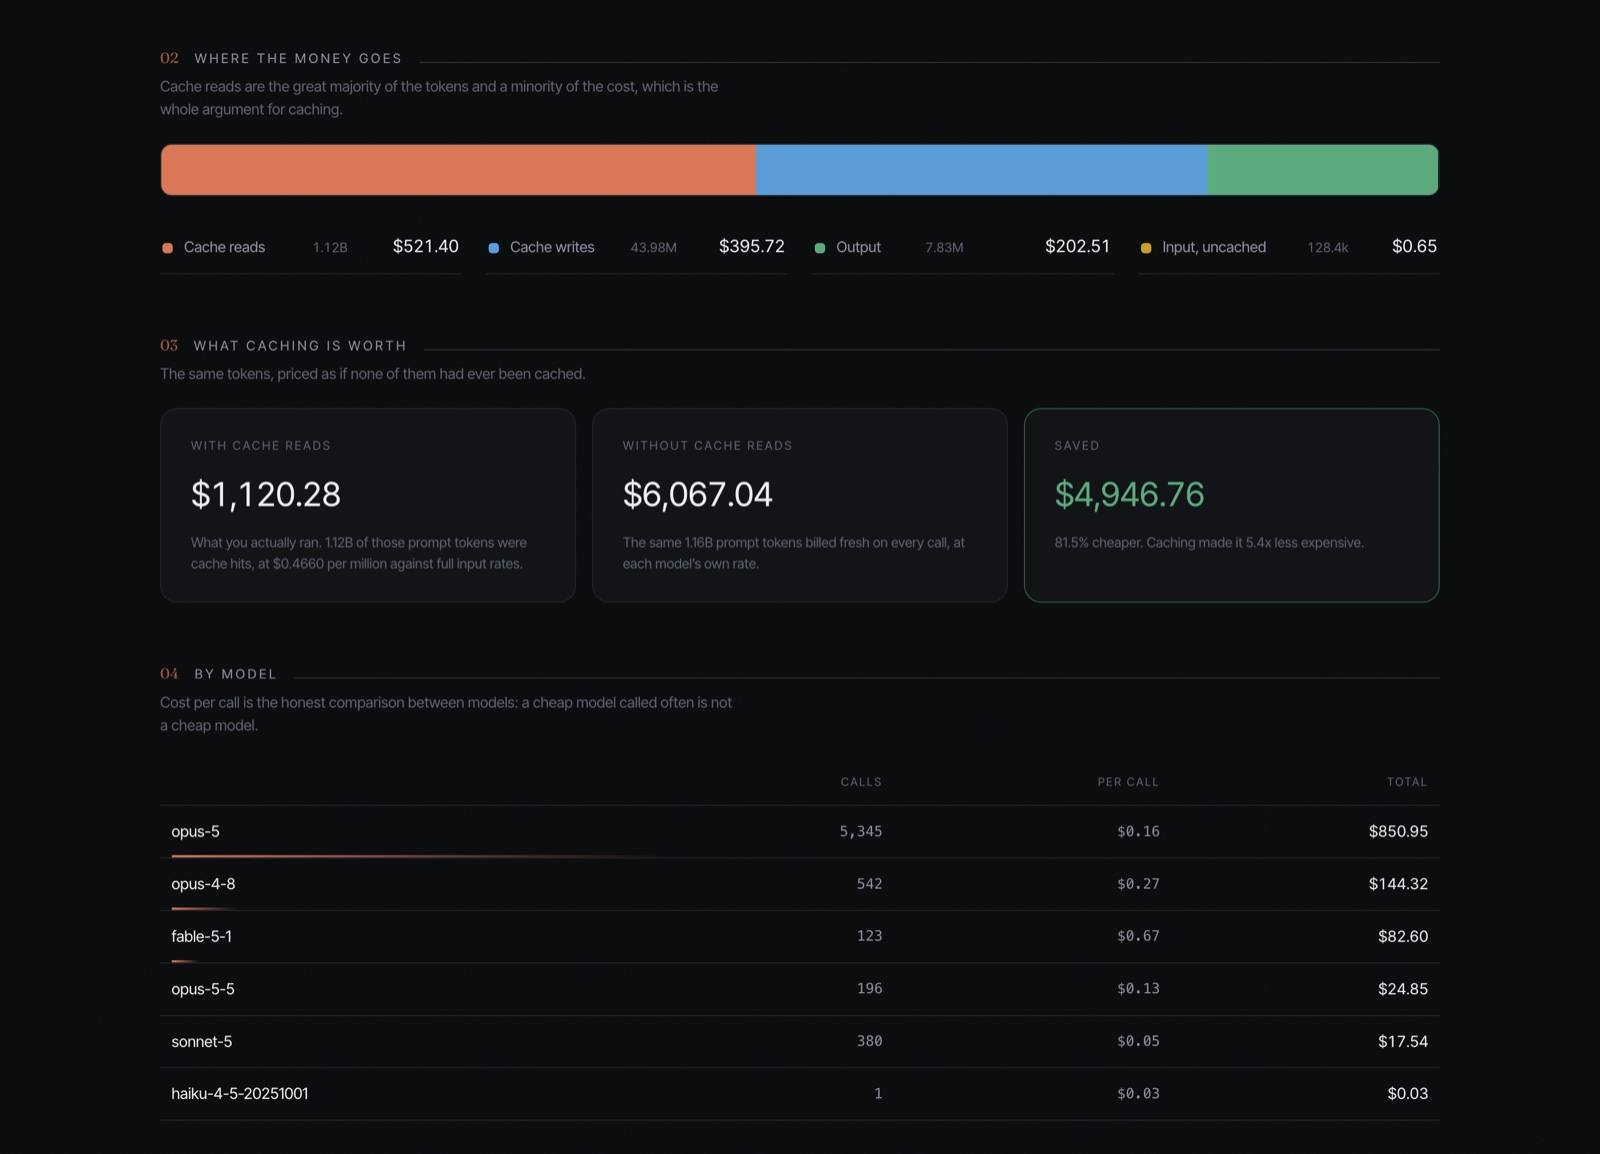
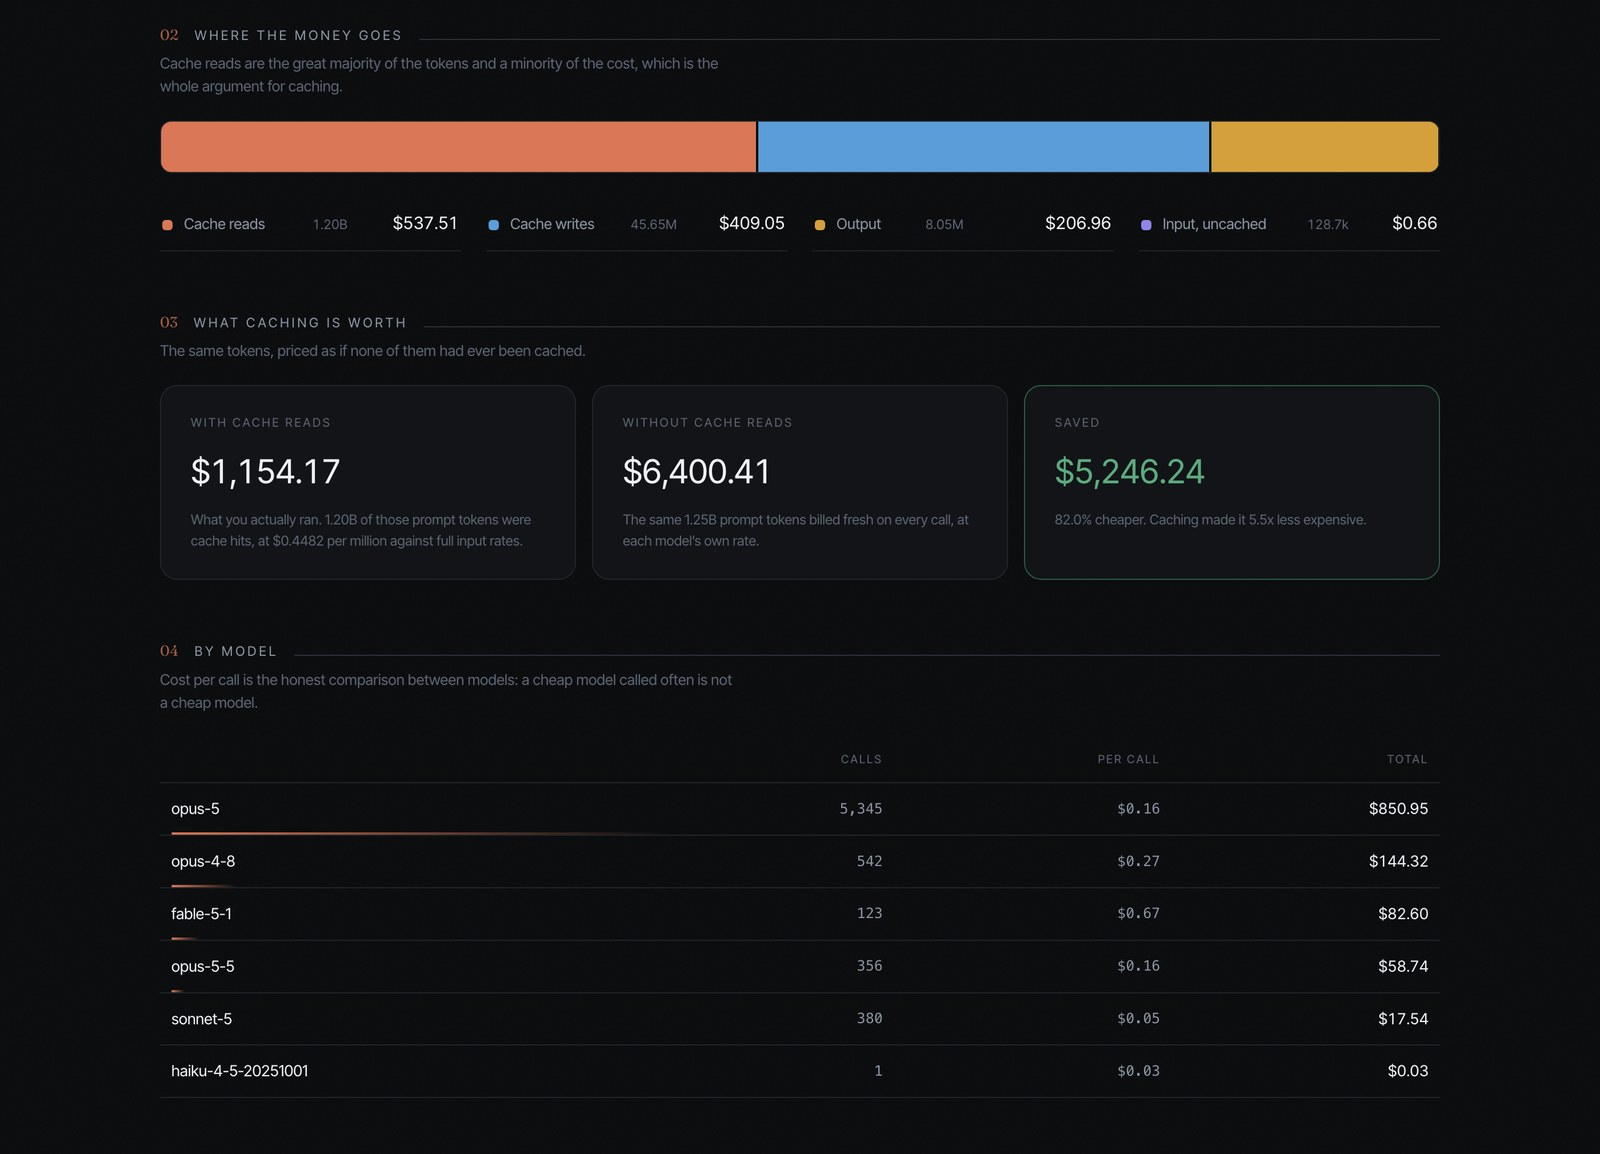
Tokenmeter 1.1.0
Version 1.1.0 (app build 2). Homebrew install documented: brew install, then
tokenmeter-setup, which runs install.sh from Homebrew's copy. install.sh now
reports a failed menu bar build. README gains the icon, the Homebrew steps,
a section on several harnesses with a screenshot, and dashboard screenshots
redone for the new cost breakdown colours. All figures in the screenshots
are real; project and session names are invented.

diff --git a/tokenmeter.py b/tokenmeter.py
@@ -42,7 +42,7 @@ from adapters.common import parse_time
 from pricing import TABLES
 from pricing import anthropic as _anthropic
 
-__version__ = "1.0.0"
+__version__ = "1.1.0"
 
 PROJECTS_DIR = claude_code.default_roots()[0]
 

diff --git a/README.md b/README.md
@@ -1,3 +1,5 @@
+<img src="docs/screenshots/icon.png" alt="" width="96" align="right">
+
 # Tokenmeter
 
 What your AI coding would have cost at API rates.
@@ -21,9 +23,20 @@ It has four faces over one engine:
 
 - macOS 12 or later
 - Python 3.9 or later (the one macOS ships is fine), no packages to install
-- The Xcode command line tools, for the menu bar app only: `xcode-select --install`
+- The Xcode command line tools, for the menu bar app: `xcode-select --install` (Homebrew installs them for you)
 
 ## Install
+
+With [Homebrew](https://brew.sh):
+
+```bash
+brew install adi-debug-source/tokenmeter/tokenmeter
+tokenmeter-setup
+```
+
+The first line fetches Tokenmeter and adds the `tokenmeter` command. The second installs the menu bar app and, if you use Claude Code, the status line and the `/tokenmeter` command; Homebrew cannot write to your home folder itself, which is why it is a separate step. After `brew upgrade tokenmeter`, run `tokenmeter-setup` again.
+
+Or from a clone:
 
 ```bash
 git clone https://github.com/Adi-debug-source/tokenmeter.git
@@ -31,15 +44,19 @@ cd tokenmeter
 ./install.sh
 ```
 
-The installer copies the engine to `~/.claude/tools/tokenmeter/`, builds the menu bar app into `~/Applications`, sets it to start at login, and, if you use Claude Code, adds the `/tokenmeter` command and the status line. If you already have a status line it is left alone; `./install.sh --statusline` replaces it. `./install.sh --no-app` skips the menu bar app. Run it again after `git pull` to update.
+Either way the same installer runs. It copies the engine to `~/.claude/tools/tokenmeter/`, builds the menu bar app into `~/Applications`, sets it to start at login, and, if you use Claude Code, adds the `/tokenmeter` command and the status line. If you already have a status line it is left alone; add `--statusline` to replace it, or `--no-app` to skip the menu bar app. From a clone, run `./install.sh` again after `git pull` to update.
 
-To remove everything except your usage history: `./install.sh --uninstall`. It moves files to the Bin rather than deleting them.
+To remove everything except your usage history: `tokenmeter-setup --uninstall` then `brew uninstall tokenmeter`, or `./install.sh --uninstall` from a clone. Files are moved to the Bin rather than deleted.
 
 ## Usage
 
+With Homebrew the `tokenmeter` command is already there. From a clone, make it with:
+
 ```bash
 alias tokenmeter="python3 ~/.claude/tools/tokenmeter/tokenmeter.py"
+```
 
+```bash
 tokenmeter                      # everything found, all time
 tokenmeter --by model           # or project, day, session, hour, weekday, source, provider
 tokenmeter --since 30d          # a rolling window: 24h, 7d, 30d, 2026-09-01
@@ -91,6 +108,8 @@ changes.
 - **Menu bar:** By model stays the default; "Break down by" switches it to
   harnesses or providers.
 - **Terminal:** `tokenmeter --by source` compares harnesses side by side.
+
+![Harnesses compared, and how far to trust the total](docs/screenshots/dashboard-harnesses.jpg)
 
 ### Any other harness
 

diff --git a/CHANGELOG.md b/CHANGELOG.md
@@ -1,6 +1,6 @@
 # Changelog
 
-## 1.1.0, unreleased
+## 1.1.0, 26 September 2026
 
 ### Several harnesses
 
@@ -58,6 +58,15 @@ each with a test.
 - Dashboard notes that already ended in a full stop printed two.
 - The spend chart's axis read $0.0 on every line when a page's figures were
   pennies. Small figures now get the decimals they need.
+
+### Project
+
+- Homebrew: `brew install adi-debug-source/tokenmeter/tokenmeter`, then
+  `tokenmeter-setup`, which runs the same installer a clone does. The
+  `tokenmeter` command runs the one installed engine, so the terminal, the
+  menu bar and the status line cannot drift apart after an upgrade.
+- `install.sh` says so when the menu bar app fails to build, rather than
+  saying nothing.
 
 ## 1.0.0, 26 September 2026
 
